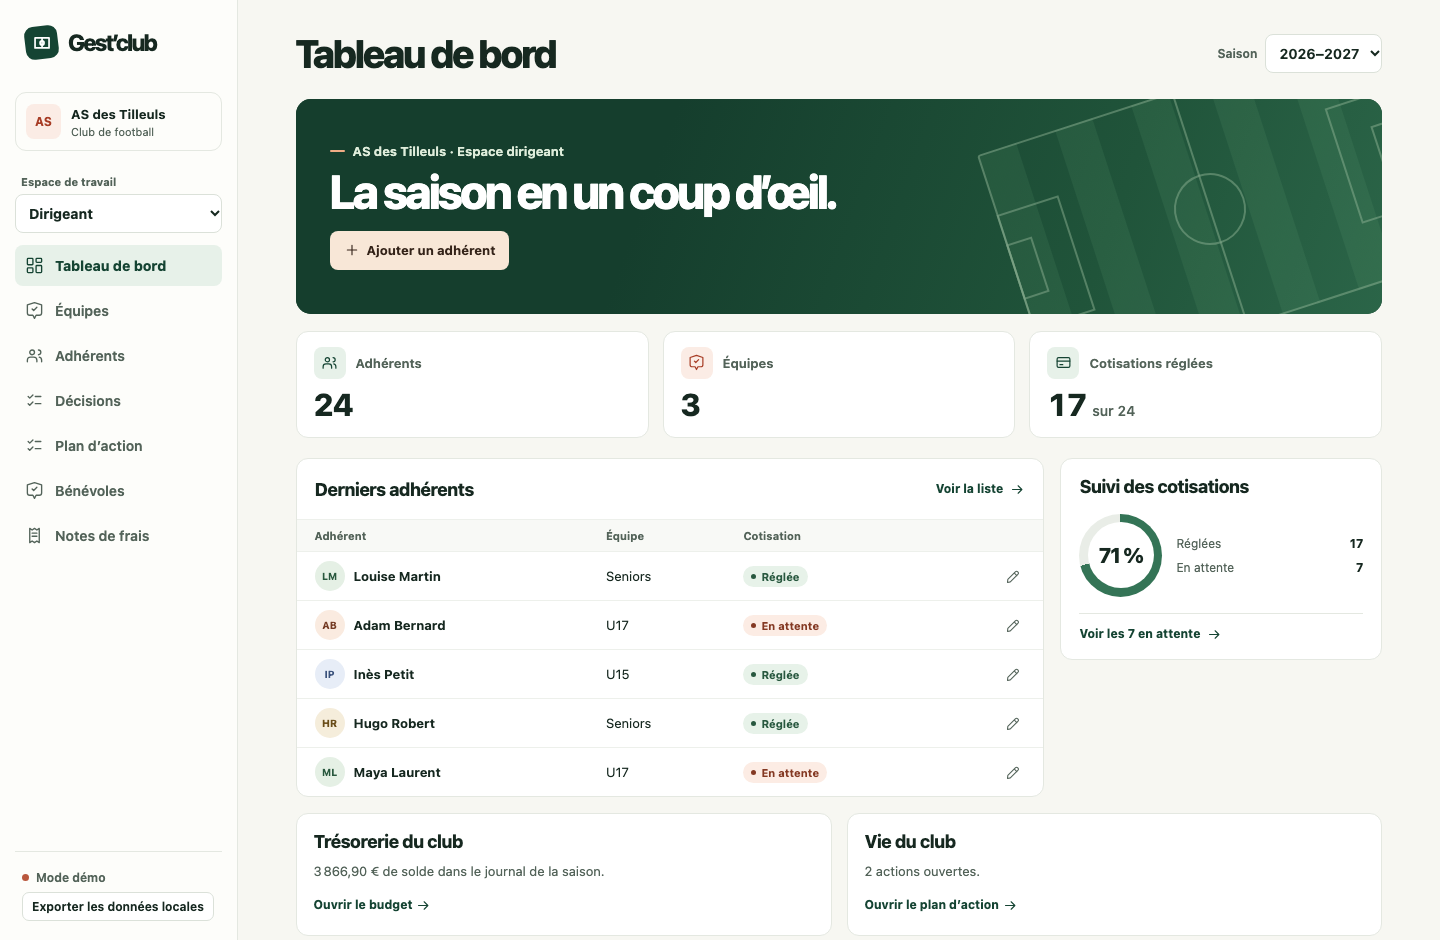
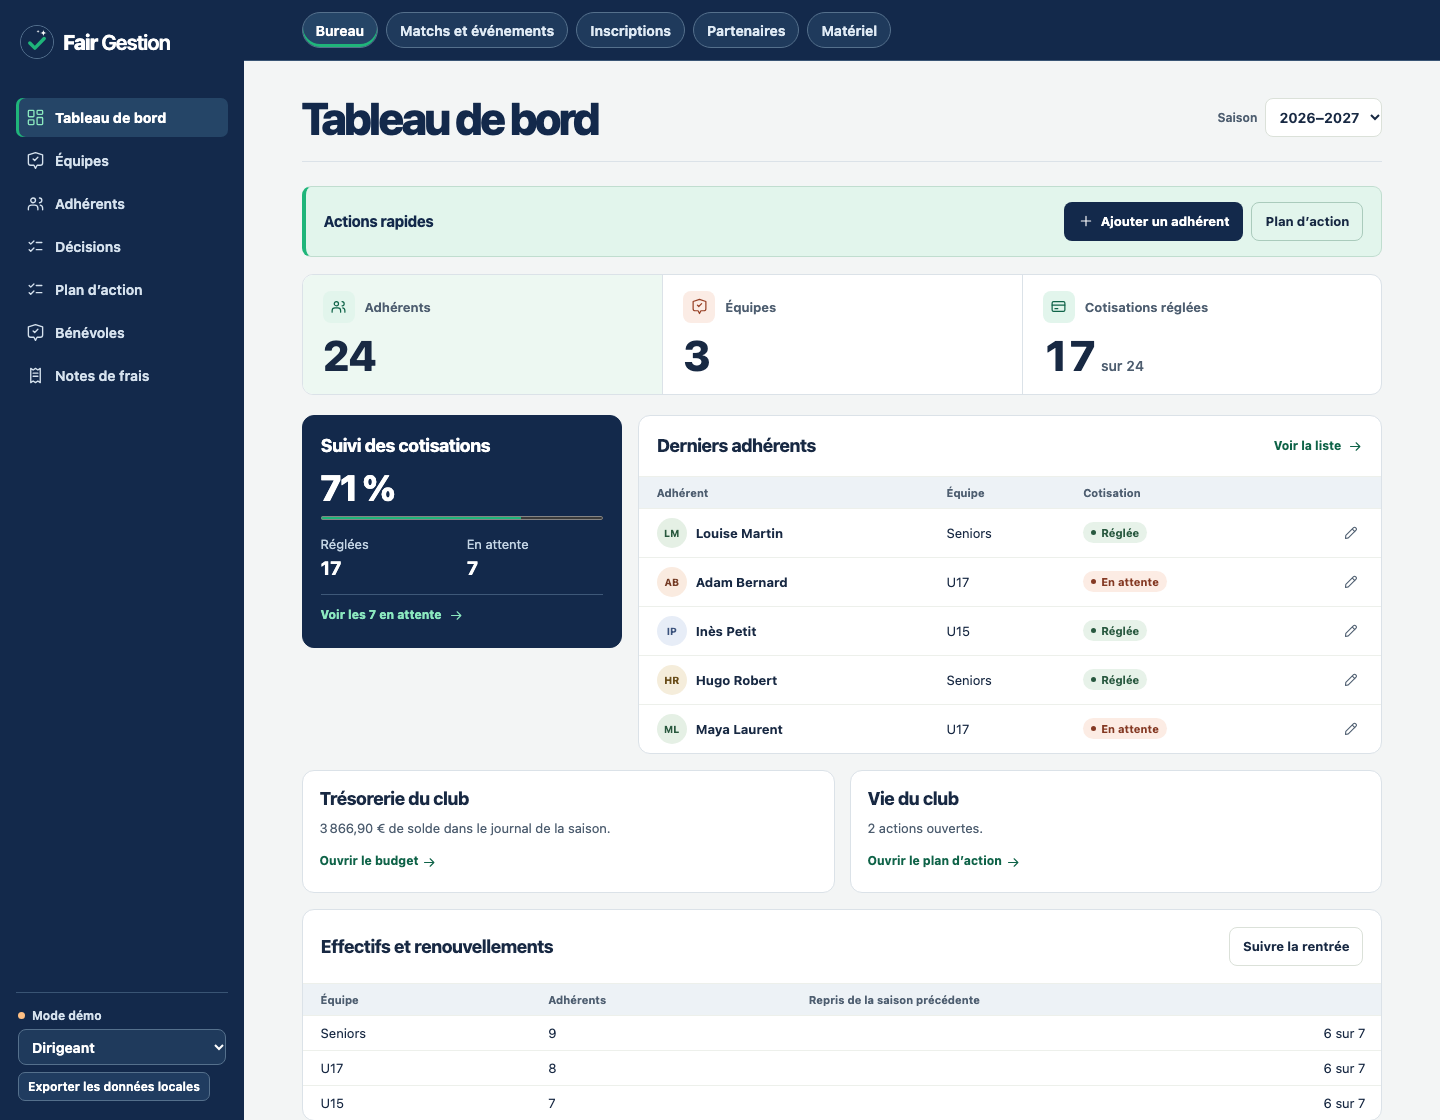
Illustrer les espaces de Fair Gestion

diff --git a/README.md b/README.md
@@ -6,6 +6,7 @@
 </p>
 
 <p align="center">
+  <a href="#captures-de-fair-gestion">Voir les captures</a> ·
   <a href="#essayer-la-démo">Essayer la démo</a> ·
   <a href="docs/installation-ovh.md">Installer chez OVHcloud</a> ·
   <a href="sql/001-install.sql">Consulter le SQL</a> ·
@@ -40,9 +41,17 @@ Dans **Matériel**, le club garde un inventaire commun à toutes les saisons, su
 
 [Télécharge le dépôt](https://github.com/julesmoreau62/gestclub/archive/refs/heads/main.zip), décompresse-le et ouvre **`index.html`** dans ton navigateur. Dans la version actuellement publiée, sélectionne un rôle dans **Espace de travail**.
 
-![Tableau de bord de la démo publiée pour le club fictif AS des Tilleuls](docs/images/tableau-de-bord.png)
-
 Dans la nouvelle interface de Fair Gestion, choisis **Bureau**, **Matchs et événements**, **Inscriptions**, **Partenaires** ou **Matériel** depuis l’accueil. Le logo **Fair Gestion**, dans la barre de gauche, permet de revenir à l’accueil. Sur une instance hébergée, les cartes affichées dépendent des rôles du compte. Dans les deux versions, la démo contient un club fictif et conserve les modifications dans le navigateur. **Exporter les données locales** permet de récupérer une sauvegarde pour une future installation.
+
+## Captures de Fair Gestion
+
+La nouvelle interface est illustrée avec les données du club fictif AS des Tilleuls. Clique sur une capture pour l’ouvrir en taille réelle.
+
+| | |
+| --- | --- |
+| <a href="docs/images/accueil.png"><img src="docs/images/accueil.png" alt="Accueil de Fair Gestion et ses cinq espaces"></a><br><strong>Accueil</strong> | <a href="docs/images/tableau-de-bord.png"><img src="docs/images/tableau-de-bord.png" alt="Tableau de bord du dirigeant"></a><br><strong>Bureau</strong> |
+| <a href="docs/images/matchs-evenements.png"><img src="docs/images/matchs-evenements.png" alt="Planning des matchs et créneaux bénévoles"></a><br><strong>Matchs et événements</strong> | <a href="docs/images/inscriptions.png"><img src="docs/images/inscriptions.png" alt="Formulaire de la saison et dossiers reçus"></a><br><strong>Inscriptions</strong> |
+| <a href="docs/images/partenaires.png"><img src="docs/images/partenaires.png" alt="Suivi des partenaires et de leurs engagements"></a><br><strong>Partenaires</strong> | <a href="docs/images/materiel.png"><img src="docs/images/materiel.png" alt="Inventaire et prêts en cours"></a><br><strong>Matériel</strong> |
 
 ## Installer un espace club
 
